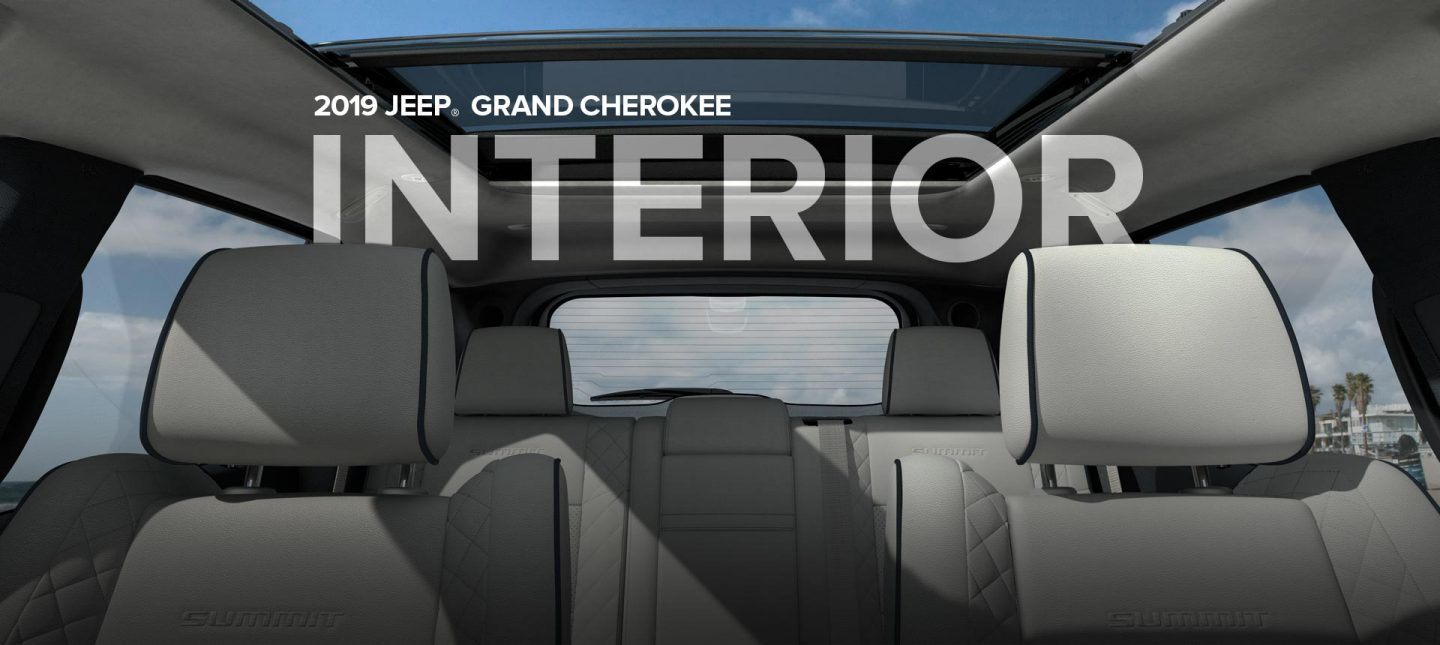
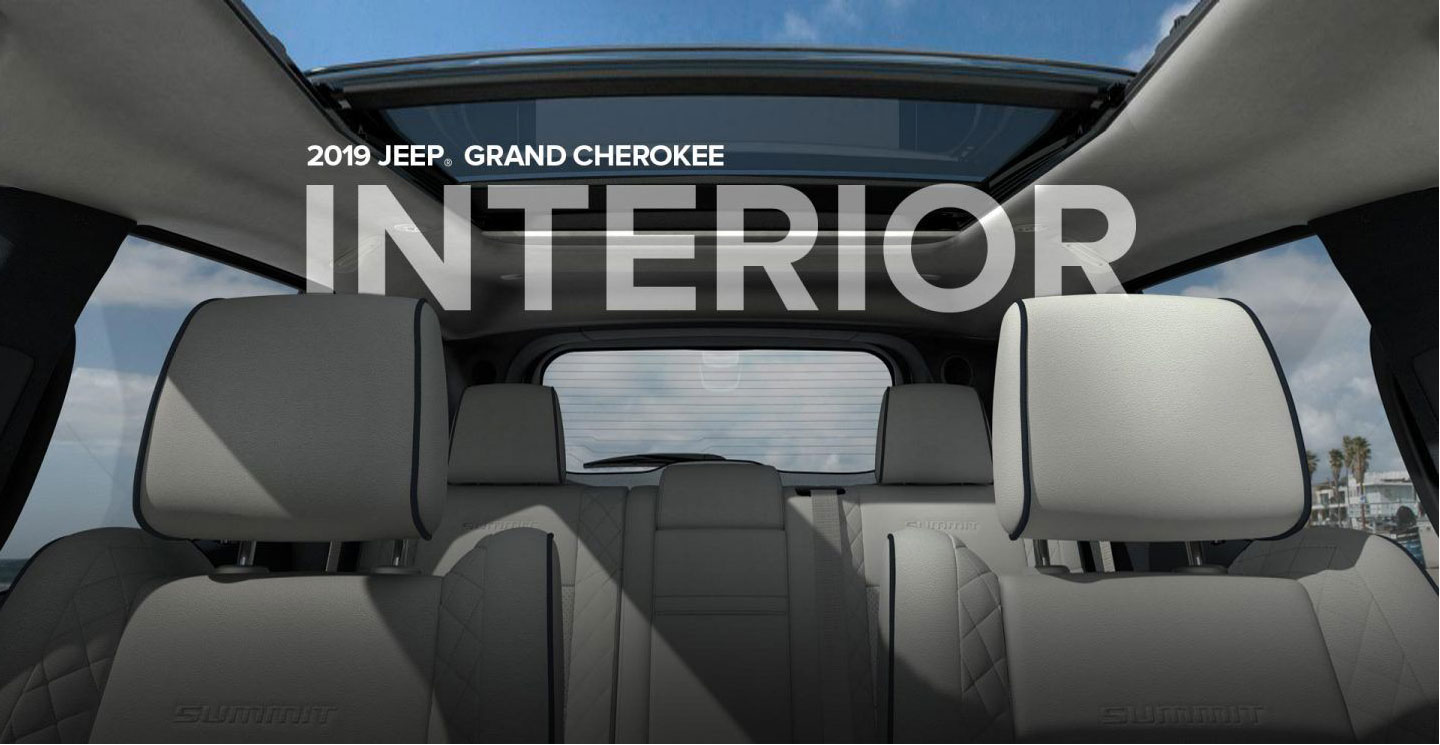
20190212

diff --git a/js/main.js b/js/main.js
@@ -36,23 +36,41 @@ $(document).ready(function(){
 		},5000)
 	}
 
-	$(window).resize({
+	var $bW = $('.interval li').width();
+	var $bH = $('.interval li').height();
+	var $vSrc ='images/main/visual/jeep-visual-';
+	var $mSrc ='images/main/visual/jeep-main-';
+
+	if ($bW/$bH<1.22) {
+		$('.interval li').each(function(index){
+			$(this).css({'background':'url('+$vSrc+eval(index+1)+'-2.jpg)  center bottom no-repeat','background-size': 'cover'});
+		});
+				$('.slide').eq(0).css({'background':'url('+$mSrc+1+'-2.jpg)  center top no-repeat','background-size': 'cover'})
+				$('.slide').eq(1).css({'background':'url('+$mSrc+2+'-2.jpg) center no-repeat','background-size': 'cover'})
+				$('.slide').eq(5).css({'background':'url('+$mSrc+6+'-2.jpg) center no-repeat','background-size': 'cover'})
+	}
+
+	$(window).resize(function(){
 		var $bW = $('.interval li').width();
 		var $bH = $('.interval li').height();
-		var $vSrc ='images/main/visual/jeep-main-';
+		var $vSrc ='images/main/visual/jeep-visual-';
+		var $mSrc ='images/main/visual/jeep-main-';
 
-		if ($bW > $bH) {
-			each(function(index){
-				$('.interval li').css({'background':'url('+$vSrc+index+'.jpg)'});
-			});
-		} else if ($bW==$bH){
-			each(function(index){
-				$('.interval li').css({'background':'url('+$vSrc+index+'-600.jpg)'});
-			});
-		} else {
-			each(function(index){
-				$('.interval li').css({'background':'url('+$vSrc+index+'-400.jpg)'});
-			});
+		 if($bW/$bH>1.22){
+			$('.interval li.interval1').css({'background':'url('+$vSrc+1+'.jpg) right center no-repeat','background-size': 'cover'});
+			$('.interval li.interval2').css({'background':'url('+$vSrc+2+'.jpg) right center no-repeat','background-size': 'cover'});
+			$('.interval li.interval3').css({'background':'url('+$vSrc+3+'.jpg) right center no-repeat','background-size': 'cover'});
+			$('.interval li.interval4').css({'background':'url('+$vSrc+4+'.jpg) center no-repeat','background-size': 'cover'});
+			$('.slide').eq(0).css({'background':'url('+$mSrc+1+'.jpg)  center bottom no-repeat','background-size': 'cover'})
+			$('.slide').eq(1).css({'background':'url('+$mSrc+2+'.jpg) left center no-repeat','background-size': 'cover'})
+			$('.slide').eq(5).css({'background':'url('+$mSrc+6+'.jpg) center no-repeat','background-size': 'cover'})
+		} else{
+				$('.interval li').each(function(index){
+				$(this).css({'background':'url('+$vSrc+eval(index+1)+'-2.jpg)  center bottom no-repeat','background-size': 'cover'});
+			});			
+				$('.slide').eq(0).css({'background':'url('+$mSrc+1+'-2.jpg)  center top no-repeat','background-size': 'cover'})
+				$('.slide').eq(1).css({'background':'url('+$mSrc+2+'-2.jpg) center no-repeat','background-size': 'cover'})
+				$('.slide').eq(5).css({'background':'url('+$mSrc+6+'-2.jpg) center no-repeat','background-size': 'cover'})
 		}
 	});
 

diff --git a/css/main.css b/css/main.css
@@ -9,20 +9,20 @@ body{background-color: #000;}
 	.interval{width: 100%;height: 100%;}
 	.interval ul{width: 100%;height: 100%;}
 	.interval ul li{width: 100%;height: 100%;position: relative;}
-	.interval ul li.interval1{background: url(../images/main/visual/jeep-visual-1.jpg) center no-repeat;background-size: cover; display: none;}
-	.interval ul li.interval2{background: url(../images/main/visual/jeep-visual-2.jpg) center no-repeat;background-size: cover;display: none;}
+	.interval ul li.interval1{background: url(../images/main/visual/jeep-visual-1.jpg) right center no-repeat;background-size: cover; display: none;}
+	.interval ul li.interval2{background: url(../images/main/visual/jeep-visual-2.jpg) right center no-repeat;background-size: cover;display: none;}
 	.interval ul li.interval2 .main-cmt{position: absolute;transform: translate(-50%,-50%);top: 32%;left: 26%;}
-	.interval ul li.interval3{background: url(../images/main/visual/jeep-visual-3.jpg) center no-repeat;background-size: cover;display: none;}
+	.interval ul li.interval3{background: url(../images/main/visual/jeep-visual-3.jpg) right center no-repeat;background-size: cover;display: none;}
 	.interval ul li.interval4{background: url(../images/main/visual/jeep-visual-4.jpg) center no-repeat;background-size: cover;display: none;}
-#page3{background: url(../images/main/visual/jeep-main-img-2.jpg) center no-repeat;background-size: 100%;position: relative;}
+#page3{background: url(../images/main/visual/jeep-main-img-2.jpg) center no-repeat;background-size: cover;position: relative;}
 #page3 .main-cmt{position: absolute;top: 23%;right: 10%;}
 #page3 .main-cmt img{width: 340px;}
 #page4 .main-cmt{position: absolute;top: 25%;left: 15%;  color: #F0F0F2;font-weight: bold;text-align: center;width: 375px;}
 #page4 .main-cmt img{width: 100%;}
 #page4 .main-cmt p:first-child{margin-bottom: 12px;font-size: 35px;}
-#page4{background: url(../images/main/visual/jeep-main-img-3.jpg) center no-repeat;background-size: 100%;}
+#page4{background: url(../images/main/visual/jeep-main-img-3.jpg) center no-repeat;background-size: cover;}
 .slide:nth-child(1){background: url(../images/main/visual/jeep-main-1.jpg) center no-repeat;background-size: cover;}
-.slide:nth-child(2){background: url(../images/main/visual/jeep-main-2.jpg) center no-repeat;background-size: cover;}
+.slide:nth-child(2){background: url(../images/main/visual/jeep-main-2.jpg) left center no-repeat;background-size: cover;}
 .slide:nth-child(3){background: url(../images/main/visual/jeep-main-3.jpg) center no-repeat;background-size: cover;}
 .slide:nth-child(4){background: url(../images/main/visual/jeep-main-4.jpg) center no-repeat;background-size: cover;}
 .slide:nth-child(5){background: url(../images/main/visual/jeep-main-5.jpg) center no-repeat;background-size: cover;}
